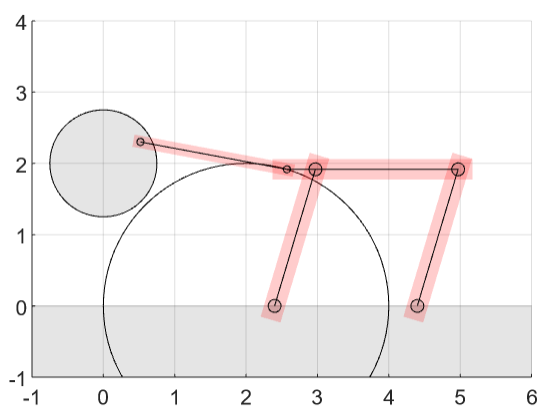
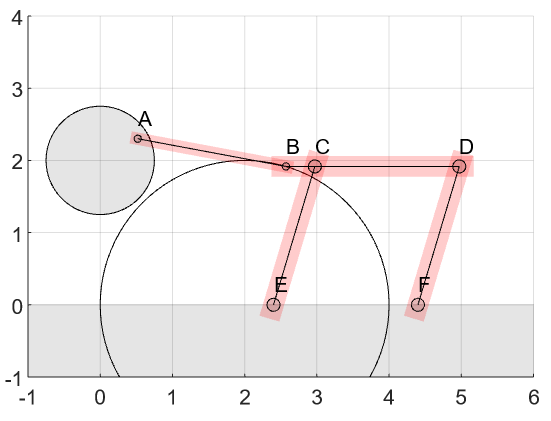
Sistemati relazione 8 e 9 e animazione

Changed region(s): [[0.0, 0.0291, 0.9945, 0.9903], [0.6527, 0.5243, 0.6837, 0.5825]]

diff --git a/template_relazione_progetto.tex b/template_relazione_progetto.tex
@@ -414,9 +414,9 @@ come mostrato nella figura \ref{fig:confrontoReg}.
 \subsection{Animazione}
 
 L'animazione del sistema controllato è stata implementata in Matlab disegnando un grafico frame per frame in base all'angolo $\theta$ simulato.
-Partendo da 3 posizioni fisse, ossia il centro della ruota(?) e i cardini(?) delle travi fissati al suolo, e in base all'angolo $\theta$ vengono calcolate le posizioni dei 3 cardini liberi.
+Partendo da tre posizioni fisse, ossia il centro del disco e le due giunzioni E e F, e in base all'angolo $\theta$ vengono calcolate le posizioni delle quattro giunzioni rimaste(A, B, C, D).
 
-In particolare si noti come i due cardini della trave(?) connessa alla ruota devono appartenere a due circonferenze. La prima è centrata chiaramente sul centro della ruota, per la seconda si noti che essendo il corpo rigido un parallelogramma, i tre cardini della trave orizzontale percorrono tutti delle circonferenze con raggio pari alla lunghezza delle travi verticali. È quindi possibile individuare una posizione univoca del secondo cardine in funzione della posizione del primo e della lunghezza della trave.
+In particolare si noti come le giunzioni A e B debbano appartenere a due circonferenze. La prima è centrata chiaramente sul centro della ruota e determina la posizione di A, per la seconda si noti che essendo il corpo rigido un parallelogramma, le tre giunzioni B, C e D della trave orizzontale percorrono tutti delle circonferenze con raggio pari alla lunghezza delle travi verticali. È quindi possibile individuare una posizione univoca per B in funzione di A e della lunghezza della trave.
 
 \begin{figure}[h!]
 	\centering
@@ -426,6 +426,12 @@ In particolare si noti come i due cardini della trave(?) connessa alla ruota dev
 \end{figure}
 
 \subsection{Secondo punto}
+
+Il regolatore realizzato è stato testato con un riferimento $\theta(t)=\theta_e$ sul sistema non lineare senza disturbi al variare dello stato iniziale. Essendo il regolatore progettato sul sistema linearizzato attorno a $\theta_e=\pi/3$, il riferimento in ingresso è data da $w(t)=\delta y=0$. Per variare lo stato iniziale del sistema è sufficiente variare lo stato iniziale dell'integratore in uscita al sistema dinamico nel modello in figura \ref{fig:simulink}.
+
+Il sistema è considerato convergente al riferimento se soddisfa l'errore a regime di $e_{\infty} = 0.04$, analogamente alla progettazione del regolatore.
+
+Il sistema non lineare rimane stabile e converge a $\theta_e$ per ogni variazione ragionevole dell'angolo e della velocità angolare iniziali, come mostrato nei grafici \ref{fig:theta_iniziali} e \ref{fig:omega_iniziali}, si noti che l'angolo in uscita è traslato in basso di $\theta_e$ per facilitare la lettura.
 
 \begin{figure}[h!]
 	\centering
@@ -438,7 +444,7 @@ In particolare si noti come i due cardini della trave(?) connessa alla ruota dev
 	\begin{subfigure}[b]{0.4\textwidth}
 		\centering
 		\includegraphics[width=\textwidth]{./images/omega_iniziali.png}
-		\caption{Andamento di $\delta y$ al variare della velocità angolare iniziale, $0.1 \le \lvert\omega\rvert \le 10^6$}
+		\caption{Andamento di $\delta y$ al variare della velocità angolare iniziale}
 		\label{fig:omega_iniziali}
 	\end{subfigure}
 	
@@ -446,50 +452,42 @@ In particolare si noti come i due cardini della trave(?) connessa alla ruota dev
 	\label{fig:stato_iniziale}
 \end{figure}
 
-Il regolatore realizzato è stato testato con un riferimento $\theta(t)=\theta_e$ sul sistema non lineare al variare dello stato iniziale. Essendo il regolatore progettato sul sistema linearizzato attorno a $\theta_e=\pi/3$, il riferimento in ingresso è data da $w(t)=\delta y=0$. Per variare lo stato iniziale del sistema è sufficiente variare lo stato iniziale dell'integratore in uscita al sistema dinamico nel modello in figura \ref{fig:simulink}.
-
-Il sistema è considerato convergente al riferimento se soddisfa l'errore a regime di $e_{\infty} = 0.04$, analogamente alla progettazione del regolatore.
-
-Il sistema non lineare rimane stabile e converge a $\theta_e$ per ogni variazione ragionevole dell'angolo e della velocità angolare iniziali, come mostrato nelle figure \ref{fig:theta_iniziali} e \ref{fig:omega_iniziali}.
-
-
 
 \subsection{Terzo punto}
 
-Per testare se il sistema non lineare controllato rispetta le specifiche in risposta a diversi gradini, sono necessarie due simulazioni. La prima, di lunga durata, controlla se la risposta rispetta l'errore a regime di 0.04. La seconda per verificare le prestazioni dinamiche delle risposte.
-Per quanto riguarda la precisione dinamica i gradini nell'intervallo [1.1, 1.4) rispettano i vincoli di sovraelungazione e tempo di assestamento al 5\%(figure \ref{fig:gradini_dinamico_low} e \ref{fig:gradini_dinamico_high}).
-In questo intervallo tutti i gradini rispettano l'errore a regime, mostrato in figura \ref{fig:gradini_statico}.
+Per capire se il sistema non lineare controllato, senza disturbi, rispetta le specifiche in risposta a diversi gradini, sono stati testati gradini nel range di ampiezza $W \in [0,3]$ con risoluzione $\Delta W = 0.01$. I valori di errore a regime, sovraelungazione e tempo di assestamento sono mostrati rispettivamente nei grafici \ref{fig:gradini_err}, \ref{fig:gradini_se} e \ref{fig:gradini_ta} in funzione di $W$. Si noti che il grafico \ref{fig:gradini_ta} è in scala semilogaritmica. \\
+Intersecando gli intervalli di $W$ per cui le specifiche sono soddisfatte, si trova che il regolatore è efficace, in assenza di disturbi, per $W \in [0, 0.09] \cup [1.02, 1.37]$.
 
 \begin{figure}[h!]
 	\centering
 	\begin{subfigure}[b]{0.3\textwidth}
 		\centering
-		\includegraphics[width=\textwidth]{./images/gradini_statico.png}
-		\caption{Precisione statica}
-		\label{fig:gradini_statico}
+		\includegraphics[width=\textwidth]{./images/gradini_err.png}
+		\caption{Errore a regime}
+		\label{fig:gradini_err}
 	\end{subfigure}
 	\begin{subfigure}[b]{0.3\textwidth}
 		\centering
-		\includegraphics[width=\textwidth]{./images/gradini_dinamico_low.png}
-		\caption{Precisione dinamica}
-		\label{fig:gradini_dinamico_low}
+		\includegraphics[width=\textwidth]{./images/gradini_se.png}
+		\caption{Sovraelungazione \%}
+		\label{fig:gradini_se}
 	\end{subfigure}
 	\begin{subfigure}[b]{0.3\textwidth}
 		\centering
-		\includegraphics[width=\textwidth]{./images/gradini_dinamico_high.png}
-		\caption{Precisione dinamica}
-		\label{fig:gradini_dinamico_high}
+		\includegraphics[width=\textwidth]{./images/gradini_ta.png}
+		\caption{Tempo di assestamento al 5\%}
+		\label{fig:gradini_ta}
 	\end{subfigure}
 	
-	\caption{Verifica specifiche}
-	\label{fig:specifiche_gradini}
+	\caption{Risposta a gradini con ampiezza $ W \in [0,3]$ }
+	\label{fig:risposte_gradini}
 \end{figure}
 
 \section{Conclusioni}
 
-In conclusione, sebbene il regolatore progettato sia efficiace e rispetti le specifiche sul sistema linearizzato, esso non offre le stesse prestazioni nel controllo del sistema non lineare. Non viene infatti rispettata le specifiche dinamiche sul tempo di assestamento al 5\% e sulla sovraelungazione per $w(t) = 1(t)$. Cioè è dovuto al comportamento non lineare del sistema, non catturabile nella linearizzazione, che porta a una differenza nell'inseguimento del riferimento.
-Inoltre il regolatore non è in grado di attenuare correttamente i disturbi di misura nel sistema non lineare, il che porta l'uscita a divergere dal riferimento.
+In conclusione, sebbene il regolatore progettato sia efficiace e rispetti le specifiche sul sistema linearizzato, esso non offre le stesse prestazioni nel controllo del sistema non lineare. Non viene infatti rispettata la specifica dinamica sulla sovraelungazione per $w(t) = 1(t)$. Cioè è dovuto al comportamento non lineare del sistema, non catturabile nella linearizzazione, che porta a una differenza nell'inseguimento del riferimento.
+Inoltre il regolatore non è in grado di attenuare correttamente i disturbi di misura nel sistema non lineare, il che porta l'uscita a divergere dal riferimento per $t \gg T_{a,5}$.
 Il regolatore è però, in assenza di disturbi, in grado di riportare il sistema non lineare alle condizioni di equilibrio per ogni angolo e velocità inziale ragionevoli.
-Inoltre, sebbene il controllo non sia efficace per un gradino di ampiezza $W=1$, lo diventa per tutti i gradini con ampiezza nel range $[1.1, 1.4)$.
+Inoltre, sebbene il controllo non sia efficace per un gradino di ampiezza $W=1$, lo diventa per tutti i gradini con ampiezza nel range $W \in [0, 0.09] \cup [1.02, 1.37]$.
 
 \end{document}

diff --git a/progetto.m b/progetto.m
@@ -372,6 +372,14 @@ xlabel('W(rad)');
 ylabel('Tempo di assestamento(log_{10} s)');
 grid on, hold on, zoom on;
 
+%% Range di gradini validi
+error = cell2mat(LVs) - W_range';
+W_err_range = W_range(error < e_max);
+W_se_range = W_range(cell2mat(SEs) < S);
+W_ta_range = W_range(cell2mat(TAs)< T_a5);
+W_range_valid = intersect(intersect(W_err_range, W_se_range), W_ta_range);
+disp(W_range_valid);
+
 %% Animazione
 x_sim = x_e;
 W_sim = W;
@@ -390,7 +398,7 @@ function [out] = noise_gen(omega)
 end
 
 function [] = animation(y_sim)
-    frame_length = max(floor(length(y_sim.Data)/60), 1); %circa 30fps per 2s
+    frame_length = max(floor(length(y_sim.Data)/60), 1); %circa 15fps per 4s
     thetas = y_sim.Data(1:frame_length:end);
     tt = y_sim.Time(1:frame_length:end);
 
@@ -447,23 +455,30 @@ function [] = animation(y_sim)
 
         pos = [pin1-0.05 2*0.05 2*0.05];
         rectangle('Position',pos,'Curvature',[1 1], 'FaceColor', [0 0 0 0.1]);
+        %text(pin1(1), pin1(2)+0.3, 'A');
 
         pos = [hbar_left-0.05 2*0.05 2*0.05];
         rectangle('Position',pos,'Curvature',[1 1], 'FaceColor', [0 0 0 0.1]);
+        %text(hbar_left(1), hbar_left(2)+0.3, 'B');
 
         pos = [vbarL_top-0.09 2*0.09 2*0.09];
         rectangle('Position',pos,'Curvature',[1 1], 'FaceColor', [0 0 0 0.1]);
+        %text(vbarL_top(1), vbarL_top(2)+0.3, 'C');
         pos = [vbarR_top-0.09 2*0.09 2*0.09];
         rectangle('Position',pos,'Curvature',[1 1], 'FaceColor', [0 0 0 0.1]);
+        %text(vbarR_top(1), vbarR_top(2)+0.3, 'D');
 
         pos = [vbarL_bottom-0.09 2*0.09 2*0.09];
         rectangle('Position',pos,'Curvature',[1 1], 'FaceColor', [0 0 0 0.1]);
+        %text(vbarL_bottom(1), vbarL_bottom(2)+0.3, 'E');
         pos = [vbarR_bottom-0.09 2*0.09 2*0.09];
         rectangle('Position',pos,'Curvature',[1 1], 'FaceColor', [0 0 0 0.1]);
+        %text(vbarR_bottom(1), vbarR_bottom(2)+0.3, 'F');
+
         if i == 1
             pause;
         else 
-            pause((tt(i)-tt(i-1)) * 200);
+            pause((tt(i)-tt(i-1)) * 400);
         end
     end  
 end
